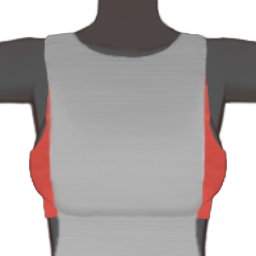
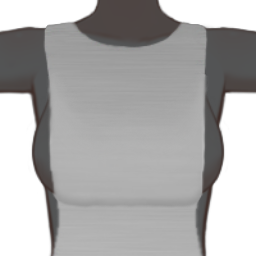
resolved comments.. hopefully :D

Changed region(s): [[0.0, 0.0, 1.0, 0.25], [0.0, 0.1875, 0.25, 1.0], [0.75, 0.2812, 1.0, 1.0]]

diff --git a/src/assets/tops/drop_armohole_tank-top/drop_armohole_tank-top.asset.ts b/src/assets/tops/drop_armohole_tank-top/drop_armohole_tank-top.asset.ts
@@ -20,19 +20,6 @@ DefineAsset({
 			'Clothing_upper',
 		],
 	},
-	modules: {
-		type: {
-			type: 'typed',
-			name: 'Drop Armhole Tank Top Type',
-			variants: [
-				{
-					id: 'regular',
-					name: 'Regular',
-					default: true,
-				},
-			],
-		},
-	},
 	ownership: {
 		responsibleContributor: 'Freyja <[email redacted]>',
 		credits: ['Freyja'],